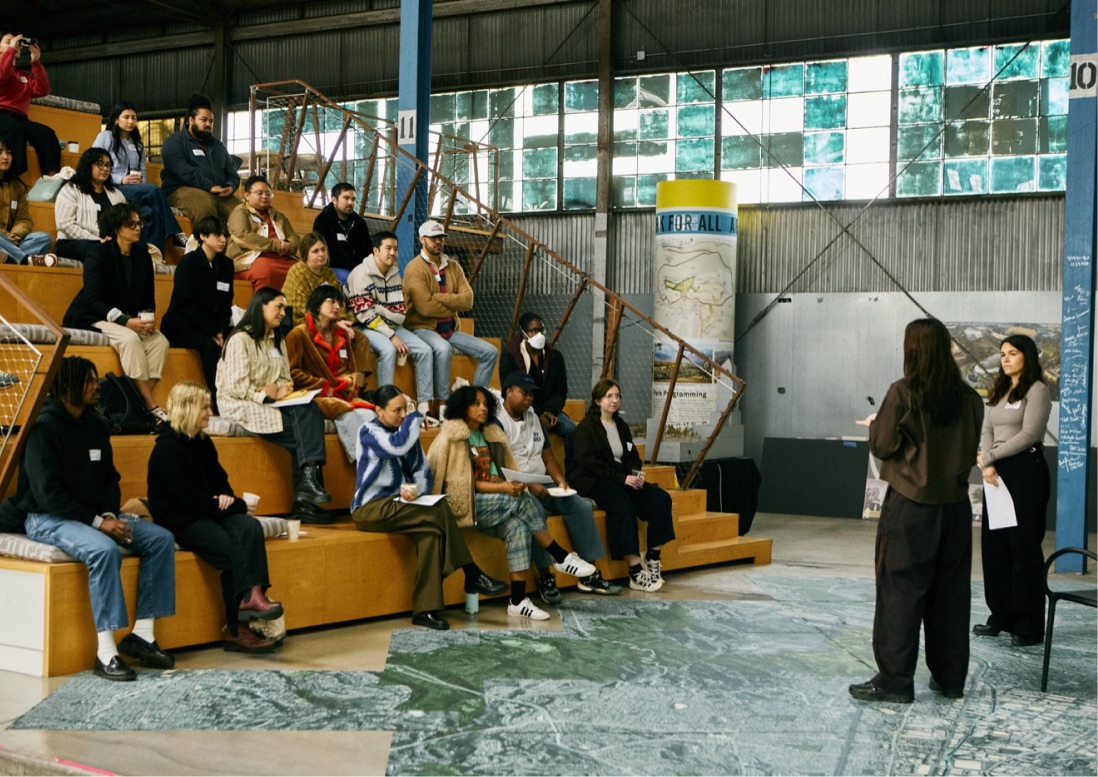
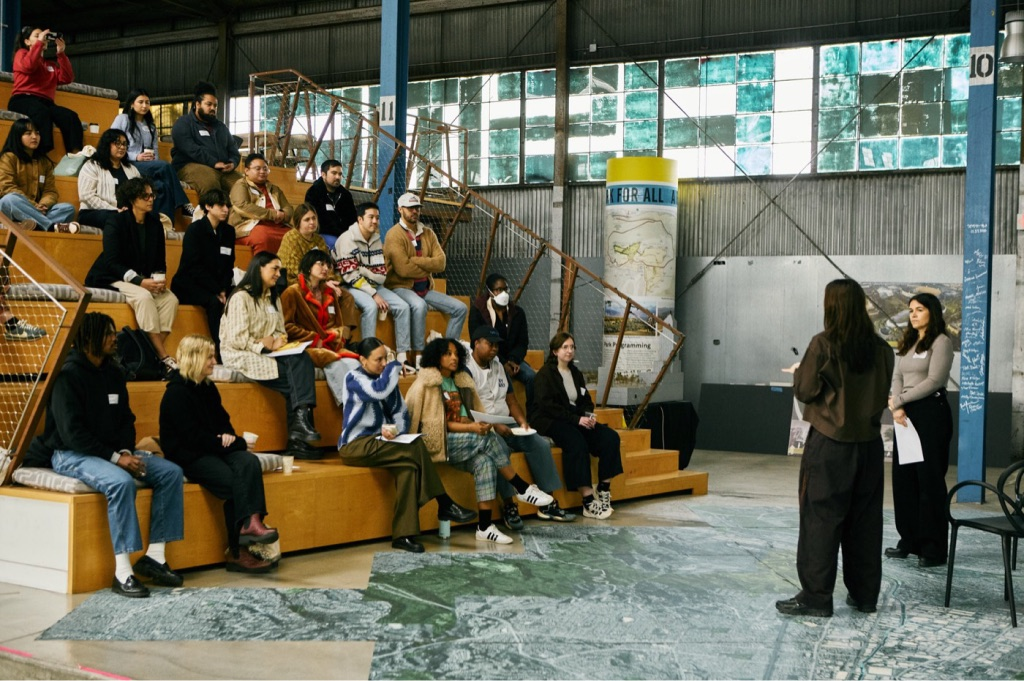
Publish site update

diff --git a/index.html b/index.html
@@ -40,7 +40,7 @@
       </div>
     </section>
     <section class="featured"><span class="label">Featured Work</span></section>
-    <div class="prow home-row" style="grid-template-columns:549fr 363fr 287fr;column-gap:23px;padding-left:calc(17 / 1280 * 100%);padding-right:calc(18 / 1280 * 100%);align-items:start">
+    <div class="prow home-row" style="grid-template-columns:515fr 404fr 274fr;column-gap:calc(25 / 1280 * 100%);padding-left:calc(17 / 1280 * 100%);padding-right:calc(20 / 1280 * 100%);align-items:start">
       <a class="card" href="/prelude"><figure><img src="images/card-prelude.jpg" alt="Redefining Access in the Film and TV Industry"></figure><div class="caption"><span><span class="card-title">Redefining Access in the Film and TV Industry</span> <span class="client">Prelude for Tender Pictures</span></span></div></a>
       <a class="card" href="/creative-bc"><figure><img src="images/card-creative-bc.jpg" alt="Authority and Narrative on British Columbia’s Creative Economy"></figure><div class="caption"><span><span class="card-title">Authority and Narrative on British Columbia’s Creative Economy</span> <span class="client">Creative BC</span></span></div></a>
       <a class="card" href="/the-werk"><figure><img src="images/card-the-werk.jpg" alt="Editorial for People Who Seek More From Work"></figure><div class="caption"><span><span class="card-title">Editorial for People Who Seek More From Work</span> <span class="client">The Werk for Werklab</span></span></div></a>
